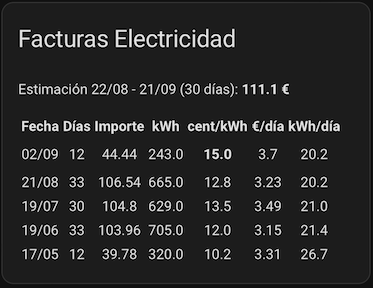
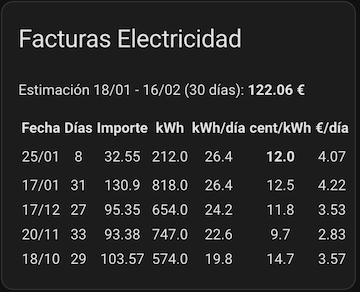
Get billing periods before consumptions

diff --git a/custom_components/pvpc_energy/coordinator.py b/custom_components/pvpc_energy/coordinator.py
@@ -37,12 +37,6 @@ class PvpcCoordinator:
         UFD.cups = config['cups']        
         _LOGGER.debug(f"END - set_config")
 
-    async def test(hass):
-        start_date = datetime.date.today() - datetime.timedelta(days=12)
-        end_date = datetime.date.today() - datetime.timedelta(days=2)
-        data = await REE.pvpc(start_date, end_date, hass)
-        _LOGGER.debug(f"test: {data}")
-
     async def reprocess_statistics(hass):
         _LOGGER.debug(f"START - reprocess_statistics()")
         total_consumptions, total_prices = PvpcCoordinator.load_energy_data(ENERGY_FILE)
@@ -92,6 +86,7 @@ class PvpcCoordinator:
         
         _LOGGER.info(f"start_date={start_date.isoformat()}, end_date={end_date.isoformat()}")
         if end_date >= start_date:
+            billing_periods = await PvpcCoordinator.get_billing_periods()
             total_consumptions, total_prices = PvpcCoordinator.load_energy_data(ENERGY_FILE)
             consumptions_len = len(total_consumptions)
             prices_len = len(total_prices)
@@ -128,11 +123,12 @@ class PvpcCoordinator:
                 _LOGGER.info(f"len(consumption_statistics)={len(consumption_statistics)}, len(cost_statistics)={len(cost_statistics)}")
                 await get_instance(hass).async_add_executor_job(async_add_external_statistics, hass, consumption_metadata, consumption_statistics)
                 await get_instance(hass).async_add_executor_job(async_add_external_statistics, hass, cost_metadata, cost_statistics)
-                await PvpcCoordinator.calculate_bills(total_consumptions, hass)
+                await PvpcCoordinator.calculate_bills(billing_periods, total_consumptions, hass)
         if not hass.states.get(CURRENT_BILL_STATE):
             if len(total_consumptions) == 0:
                 total_consumptions, total_prices = PvpcCoordinator.load_energy_data(ENERGY_FILE)
-            await PvpcCoordinator.calculate_bills(total_consumptions, hass)
+            billing_periods = await PvpcCoordinator.get_billing_periods()
+            await PvpcCoordinator.calculate_bills(billing_periods, total_consumptions, hass)
 
         _LOGGER.debug(f"END - import_energy_data")
 
@@ -196,69 +192,76 @@ class PvpcCoordinator:
         _LOGGER.debug(f"END - get_data: len(result)={len(result)}")
         return result
 
-    async def calculate_bills(consumptions, hass):
-        _LOGGER.debug(f"START - calculate_bills(len(consumptions)={len(consumptions)})")
+    async def get_billing_periods():
+        _LOGGER.debug(f"START - get_billing_periods()")
+        billing_periods = PvpcCoordinator.load_billing_periods(BILLING_PERIODS_FILE)
+        if len(billing_periods) == 0:
+            start_date = datetime.date(2000, 1, 1)
+        else:
+            start_date = billing_periods[-1]['end_date']
+        end_date = datetime.date.today()
+        _LOGGER.info(f"start_date={start_date.isoformat()}, end_date={end_date.isoformat()}, (end_date - start_date).days={(end_date - start_date).days}")
+        if (end_date - start_date).days > 25:
+            new_billing_periods = await UFD.billingPeriods(start_date, end_date)
+            if len(new_billing_periods) > 0:
+                billing_periods += new_billing_periods
+                PvpcCoordinator.save_billing_periods(BILLING_PERIODS_FILE, billing_periods)
+        _LOGGER.debug(f"END - get_billing_periods: len(billing_periods)={len(billing_periods)}")
+        return billing_periods
 
-        if len(consumptions) > 0:
-            periods_start_date = datetime.date.fromtimestamp(min(consumptions.keys()))
-            periods_end_date = datetime.date.today()
-            billing_periods = PvpcCoordinator.load_billing_periods(BILLING_PERIODS_FILE)
-            if len(billing_periods) > 0:
-                periods_start_date = billing_periods[-1]['end_date']
-            _LOGGER.info(f"periods_start_date={periods_start_date.isoformat()}, periods_end_date={periods_end_date.isoformat()}, (periods_end_date - periods_start_date).days={(periods_end_date - periods_start_date).days}")
-            if (periods_end_date - periods_start_date).days > 25:
-                new_billing_periods = await UFD.billingPeriods(periods_start_date, periods_end_date)
-                if len(new_billing_periods) > 0:
-                    billing_periods += new_billing_periods
-                    PvpcCoordinator.save_billing_periods(BILLING_PERIODS_FILE, billing_periods)
-            if len(billing_periods) > 0:
-                update = False
-                for billing_period in reversed(billing_periods):
-                    if 'total_cost' not in billing_period:
-                        billing_period = await PvpcCoordinator.get_bill(billing_period, consumptions)
-                        if 'total_cost' in billing_period:
-                            update = True
-                if update:
-                    PvpcCoordinator.save_billing_periods(BILLING_PERIODS_FILE, billing_periods)
+    async def calculate_bills(billing_periods, consumptions, hass):
+        _LOGGER.debug(f"START - calculate_bills(len(billing_periods)={len(billing_periods)}, len(consumptions)={len(consumptions)})")
 
-                current_billing_period = {'start_date': billing_periods[-1]['end_date'] + datetime.timedelta(days=1), 'end_date':datetime.date.today()}
+        if len(consumptions) > 0 and len(billing_periods) > 0:
+            update = False
+            for billing_period in reversed(billing_periods):
+                if 'total_cost' not in billing_period:
+                    billing_period = await PvpcCoordinator.get_bill(billing_period, consumptions)
+                    if 'total_cost' in billing_period:
+                        update = True
+            if update:
+                PvpcCoordinator.save_billing_periods(BILLING_PERIODS_FILE, billing_periods)
+
+            current_billing_period = None
+            last_consumption_date = datetime.datetime.fromtimestamp(max(consumptions.keys())).date()
+            if (last_consumption_date - billing_periods[-1]['end_date']).days > 2:
+                current_billing_period = {'start_date': billing_periods[-1]['end_date'] + datetime.timedelta(days=1), 'end_date':last_consumption_date}
                 current_billing_period = await PvpcCoordinator.get_bill(current_billing_period, consumptions)
 
-                current_bill_value = ''
-                bills_description = ''
-                if 'total_cost' in current_billing_period and current_billing_period['total_cost'] != '-':
-                    billing_periods.append(current_billing_period)
-                    current_bill_value = '%.2f' % current_billing_period['total_cost']
-                    days = (current_billing_period['end_date'] - current_billing_period['start_date']).days + 1
+            current_bill_value = ''
+            bills_description = ''
+            if current_billing_period and 'total_cost' in current_billing_period and current_billing_period['total_cost'] != '-':
+                billing_periods.append(current_billing_period)
+                current_bill_value = '%.2f' % current_billing_period['total_cost']
+                days = (current_billing_period['end_date'] - current_billing_period['start_date']).days + 1
 
-                    estimation_days = 30
-                    if estimation_days > days:
-                        estimation_end_date = current_billing_period['start_date'] + datetime.timedelta(days=estimation_days-1)
-                        cost = round(current_billing_period['total_cost'] / days * estimation_days, 2)
-                        bills_description += f"Estimación {current_billing_period['start_date'].strftime('%d/%m')} - {estimation_end_date.strftime('%d/%m')} ({estimation_days} días): **{cost} €**\n\n"
+                estimation_days = 30
+                if estimation_days > days:
+                    estimation_end_date = current_billing_period['start_date'] + datetime.timedelta(days=estimation_days-1)
+                    cost = round(current_billing_period['total_cost'] / days * estimation_days, 2)
+                    bills_description += f"Estimación {current_billing_period['start_date'].strftime('%d/%m')} - {estimation_end_date.strftime('%d/%m')} ({estimation_days} días): **{cost} €**\n\n"
                     
-                bills_description += '| Fecha | Días | Importe | kWh | kWh/día | cent/kWh | €/día |\n'
-                bills_description += '| :---: | :---: | :---: | :---: | :---: | :---: | :---: |'
-                for billing_period in reversed(billing_periods[-PvpcCoordinator.bills_number:]):
-                    date = billing_period['end_date'].strftime('%d/%m')
-                    days = (billing_period['end_date'] - billing_period['start_date']).days + 1
-                    consumption = round(billing_period['total_consumption'], 0)
-                    day_consumption = round(billing_period['total_consumption'] / days, 1)
-                    cost = ''
-                    cost_kwh = ''
-                    day_cost = ''
-                    if 'total_cost' in billing_period and billing_period['total_cost'] != '-':
-                        cost = round(billing_period['total_cost'], 2)
-                        cost_kwh = round(billing_period['energy_cost'] / billing_period['total_consumption'] * 100, 1)
-                        day_cost = round(billing_period['total_cost'] / days, 2)
-                    if billing_period == current_billing_period:
-                        bills_description += f"\n|\n| {date} | {days} | {cost} | {consumption} | {day_consumption} | **{cost_kwh}** | {day_cost} |\n|"
-                    else:
-                        bills_description += f"\n| {date} | {days} | {cost} | {consumption} | {day_consumption} | {cost_kwh} | {day_cost} |"
+            bills_description += '| Fecha | Días | Importe | kWh | kWh/día | cent/kWh | €/día |\n'
+            bills_description += '| :---: | :---: | :---: | :---: | :---: | :---: | :---: |'
+            for billing_period in reversed(billing_periods[-PvpcCoordinator.bills_number:]):
+                date = billing_period['end_date'].strftime('%d/%m')
+                days = (billing_period['end_date'] - billing_period['start_date']).days + 1
+                consumption = round(billing_period['total_consumption'], 0)
+                day_consumption = round(billing_period['total_consumption'] / days, 1)
+                cost = ''
+                cost_kwh = ''
+                day_cost = ''
+                if 'total_cost' in billing_period and billing_period['total_cost'] != '-':
+                    cost = round(billing_period['total_cost'], 2)
+                    cost_kwh = round(billing_period['energy_cost'] / billing_period['total_consumption'] * 100, 1)
+                    day_cost = round(billing_period['total_cost'] / days, 2)
+                if billing_period == current_billing_period:
+                    bills_description += f"\n|\n| {date} | {days} | {cost} | {consumption} | {day_consumption} | **{cost_kwh}** | {day_cost} |\n|"
+                else:
+                    bills_description += f"\n| {date} | {days} | {cost} | {consumption} | {day_consumption} | {cost_kwh} | {day_cost} |"
 
                 _LOGGER.info(f"current_bill_value={current_bill_value}, bills_description={bills_description}")
                 hass.states.async_set(CURRENT_BILL_STATE, current_bill_value, {'detail': bills_description})
-                print(bills_description)
         _LOGGER.debug(f"END - calculate_bills")
 
     async def get_bill(billing_period, consumptions):
